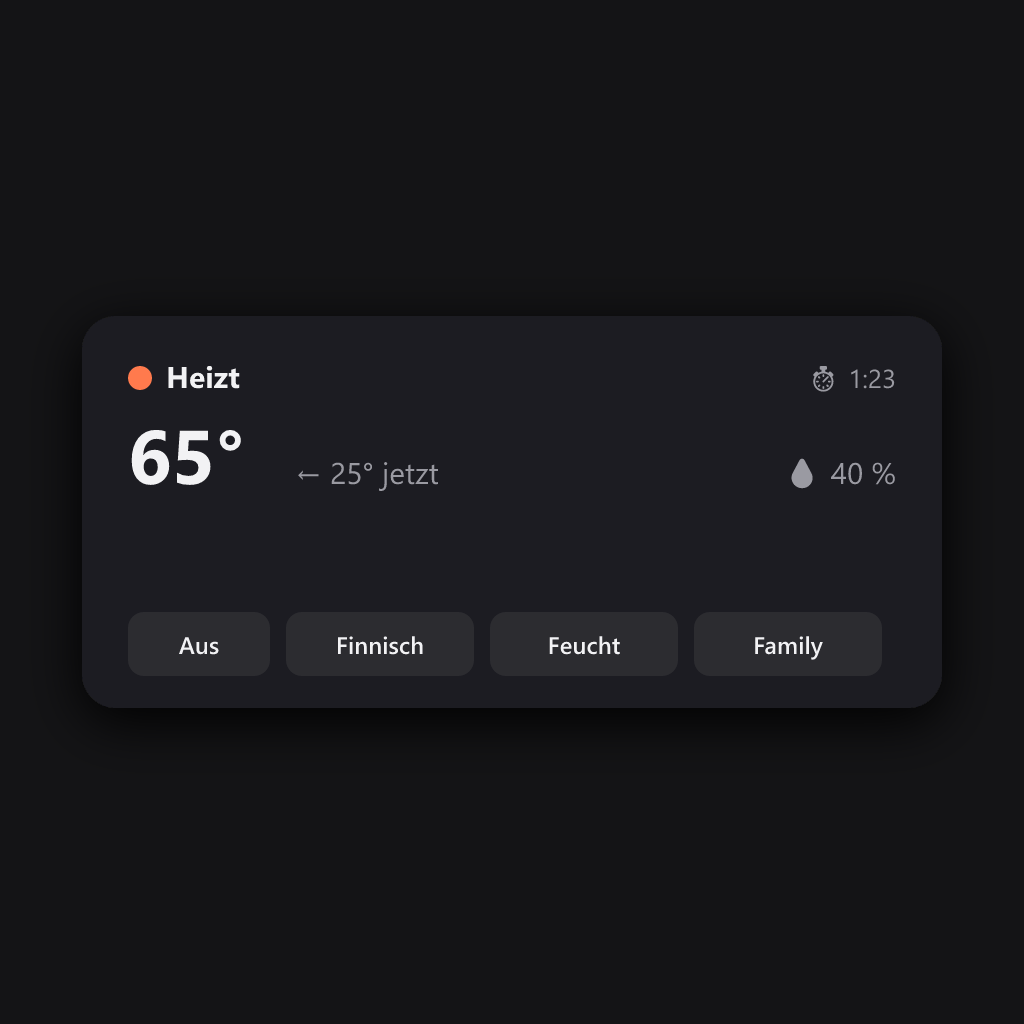
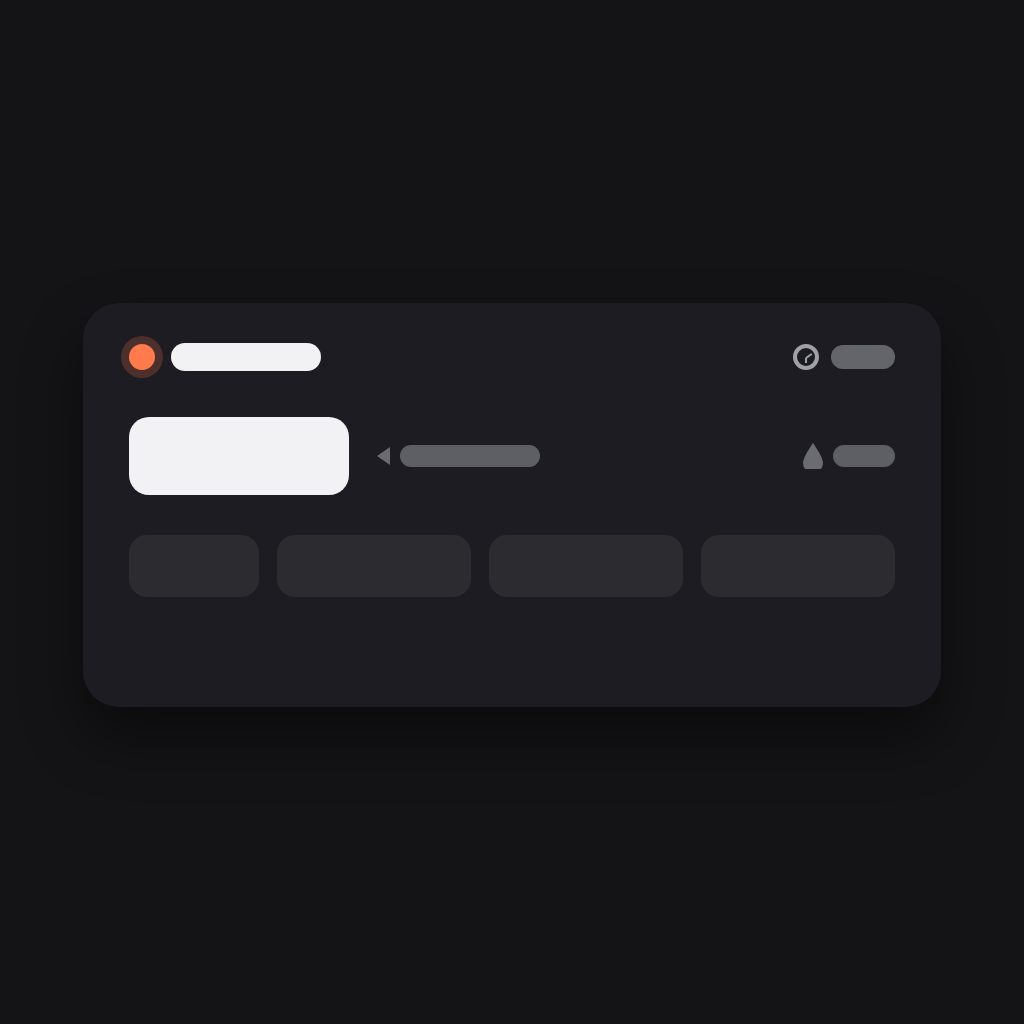
Fix certification review: remove donate button, shorten description, redraw widget previews
- Remove the in-app PayPal donate button from the settings Support tab;
  donation info now lives only in app.json contributing.donate as required.
- Shorten the app.json description to one sentence instead of a feature list.
- Redraw both widget preview images (light/dark) as a text-free layout
  mockup (icons and placeholder bars only) — the previous screenshots had
  the widget's live UI text baked in.
- Route the widget's two console.error() calls through a new /log widget
  API endpoint that forwards to homey.app.error(), matching the rest of
  the app's Homey logging instead of only the browser console.
- Regenerate package-lock.json's version metadata (was stuck at 0.6.0).
- Bump to 0.8.3 with a changelog entry for resubmission.

Claude-Session: https://claude.ai/code/session_019GY9YrfRFXksupqHcxa8Fd

diff --git a/settings/index.html b/settings/index.html
@@ -229,8 +229,7 @@
       <div class="card">
         <p id="s-about">Independent, unofficial app for HUUM UKU saunas — not affiliated with HUUM.</p>
         <div class="btnrow">
-          <button id="btn-donate" type="button" class="action">☕ Donate (PayPal)</button>
-          <button id="btn-forum" type="button" class="ghost">Community forum</button>
+          <button id="btn-forum" type="button" class="action">Community forum</button>
         </div>
       </div>
     </div>
@@ -277,7 +276,7 @@
       meterNoPerm: 'Geräteliste nicht verfügbar (fehlende Berechtigung). Nutze die kW-Schätzung.',
       save: 'Speichern', saved: 'Gespeichert', resetProfiles: 'Auf Standard zurücksetzen', noSteamer: 'kein Verdampfer',
       about: 'Unabhängige, inoffizielle App für HUUM-UKU-Saunas — nicht mit HUUM verbunden.',
-      donate: '☕ Unterstützen (PayPal)', forum: 'Forum',
+      forum: 'Forum',
       empty: 'Noch keine Sauna gekoppelt. Füge zuerst eine unter "Geräte" hinzu.',
       name: 'Name', temp: 'Temperatur (°C)', hum: 'Feuchte (%)',
       fAvailable: 'Verfügbar', fStatus: 'Status', fHeating: 'Heizt', fCurTemp: 'Aktuelle Temperatur',
@@ -325,7 +324,7 @@
       meterNoPerm: 'Device list unavailable (missing permission). Use the kW estimate.',
       save: 'Save', saved: 'Saved', resetProfiles: 'Reset to defaults', noSteamer: 'no steamer',
       about: 'Independent, unofficial app for HUUM UKU saunas — not affiliated with HUUM.',
-      donate: '☕ Donate (PayPal)', forum: 'Community forum',
+      forum: 'Community forum',
       empty: 'No sauna paired yet. Add one from Devices first.',
       name: 'Name', temp: 'Temperature (°C)', hum: 'Humidity (%)',
       fAvailable: 'Available', fStatus: 'Status', fHeating: 'Heating', fCurTemp: 'Current temperature',
@@ -439,7 +438,7 @@
       setTxt('l-kw', T.kw); setTxt('l-price', T.price); setTxt('price-hint', T.priceHint);
       setTxt('l-duty', T.duty); setTxt('duty-hint', T.dutyHint); setTxt('flow-hint', T.flowHint);
       setTxt('meter-hint', T.meterHint);
-      setTxt('s-about', T.about); setTxt('btn-donate', T.donate); setTxt('btn-forum', T.forum);
+      setTxt('s-about', T.about); setTxt('btn-forum', T.forum);
       setTxt('empty-text', T.empty); setTxt('reset-profiles', T.resetProfiles);
       ['save-profiles', 'save-advanced', 'save-power', 'save-costs'].forEach(function (b) { setTxt(b, T.save); });
       ['saved-profiles', 'saved-advanced', 'saved-power', 'saved-costs'].forEach(function (s) { setTxt(s, T.saved); });
@@ -800,7 +799,6 @@
       $('adopt-meter').addEventListener('click', function () {
         saveConfig({ adoptMeterTotal: true }, 'saved-adopt', function (cfg) { renderStats({ stats: cfg.stats }); });
       });
-      $('btn-donate').addEventListener('click', function () { try { HomeyRef.openURL('https://paypal.me/RickDch'); } catch (x) {} });
       $('btn-forum').addEventListener('click', function () { try { HomeyRef.openURL('https://community.homey.app/t/app-pro-huum-uku-sauna/159173'); } catch (x) {} });
     }
 

diff --git a/widgets/sauna/public/index.html b/widgets/sauna/public/index.html
@@ -106,6 +106,13 @@
       try { HomeyRef.setHeight(document.body.scrollHeight); } catch (e) {}
     }
 
+    // Mirrors this app's this.error(...) logging (device.js, app.js) — the widget
+    // has no Homey instance to log through, so it reports over the widget API instead.
+    function logErr(err) {
+      var message = String((err && (err.message || err.error)) || err);
+      api('POST', '/log', { message: message }).catch(function () {});
+    }
+
     function showMsg(text, isErr) {
       document.getElementById('root').innerHTML =
         '<div class="msg' + (isErr ? ' err' : '') + '">' + esc(text) + '</div>';
@@ -183,7 +190,7 @@
       promise.then(function (s) {
         busy = false; lastJson = JSON.stringify(s); render(s);
       }).catch(function (err) {
-        busy = false; console.error(err);
+        busy = false; logErr(err);
         showMsg(T.failed, true);
         setTimeout(refresh, 1500);
       });
@@ -195,7 +202,7 @@
         if (j === lastJson) return;
         lastJson = j; render(s);
       }).catch(function (err) {
-        console.error(err);
+        logErr(err);
         var m = String((err && (err.message || err.error)) || err);
         if (/no_sauna/.test(m) || (err && err.statusCode === 404)) { lastJson = null; showMsg(T.noSauna); }
         else if (lastJson == null) showMsg(T.failed, true);

diff --git a/test/widget.test.js b/test/widget.test.js
@@ -14,8 +14,12 @@ async function run() {
     widgetSetPower: async (on) => { calls.push(['power', on]); return { heating: on }; },
     widgetStartProfile: async (p) => { calls.push(['profile', p]); return { heating: true, startProfile: p }; },
   };
+  const errors = [];
   const homey = {
-    app: { getWidgetDevice: (id) => (id == null || id === 'a' ? sauna : null) },
+    app: {
+      getWidgetDevice: (id) => (id == null || id === 'a' ? sauna : null),
+      error: (...args) => errors.push(args),
+    },
   };
 
   assert.deepStrictEqual(await api.getState({ homey, query: {} }), { heating: false, targetTemperature: 80 });
@@ -34,7 +38,10 @@ async function run() {
     'no sauna paired -> 404-ish error',
   );
 
-  console.log('OK: widget api.js state / power / profile handlers');
+  await api.logError({ homey, body: { message: 'boom' } });
+  assert.deepStrictEqual(errors.pop(), ['[widget]', 'boom']);
+
+  console.log('OK: widget api.js state / power / profile / log handlers');
   console.log('\nAll widget.js tests passed.');
 }
 

diff --git a/widgets/sauna/api.js b/widgets/sauna/api.js
@@ -30,4 +30,10 @@ module.exports = {
     return device(homey, query).widgetStartProfile(body && body.profile);
   },
 
+  /** POST /log {message} — surface a widget-side failure via the app's own logging. */
+  async logError({ homey, body }) {
+    homey.app.error('[widget]', (body && body.message) || 'unknown error');
+    return {};
+  },
+
 };
